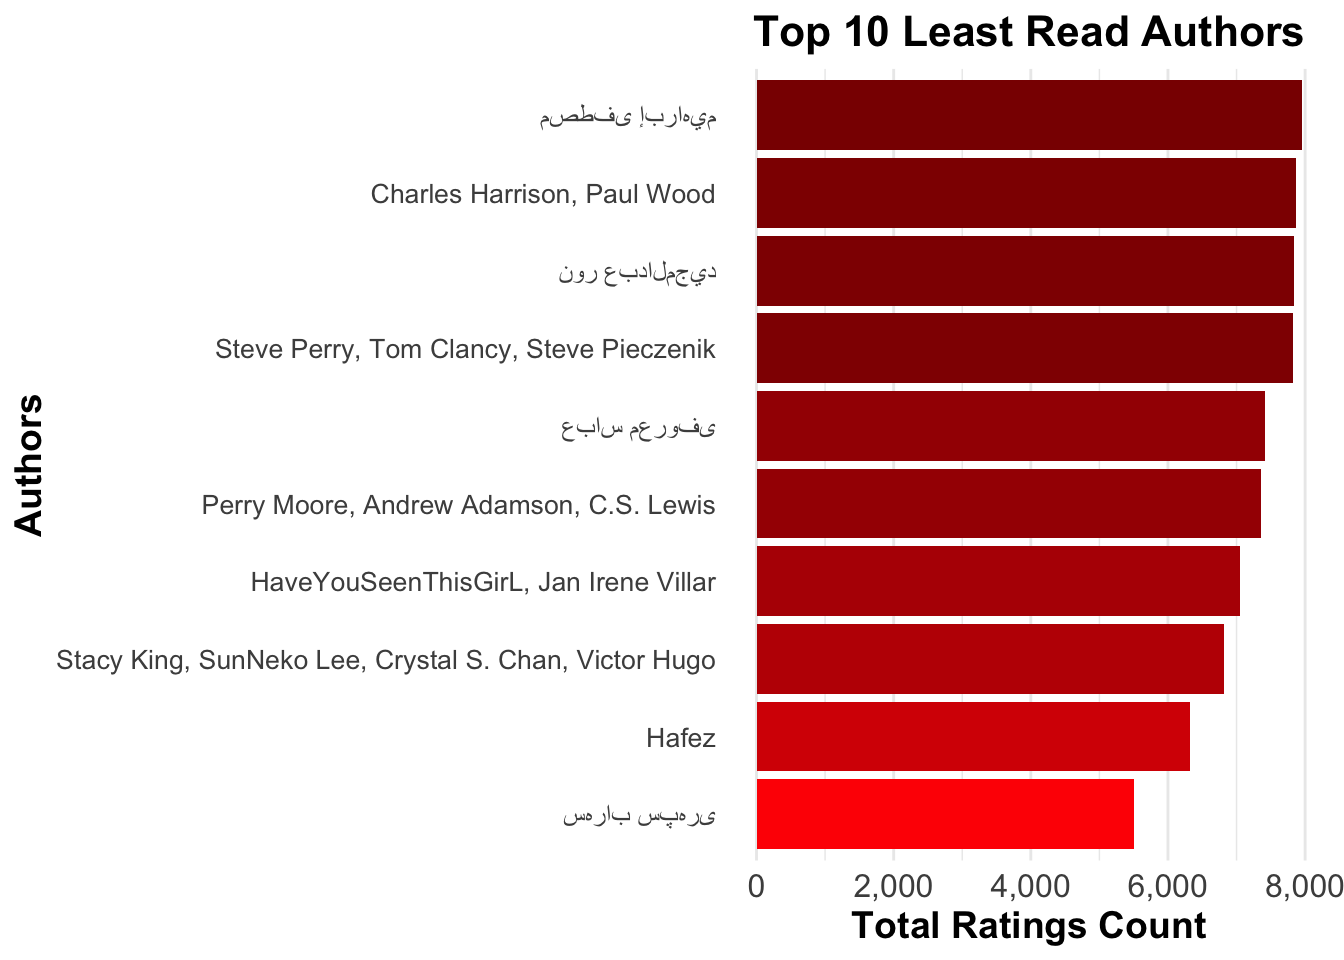
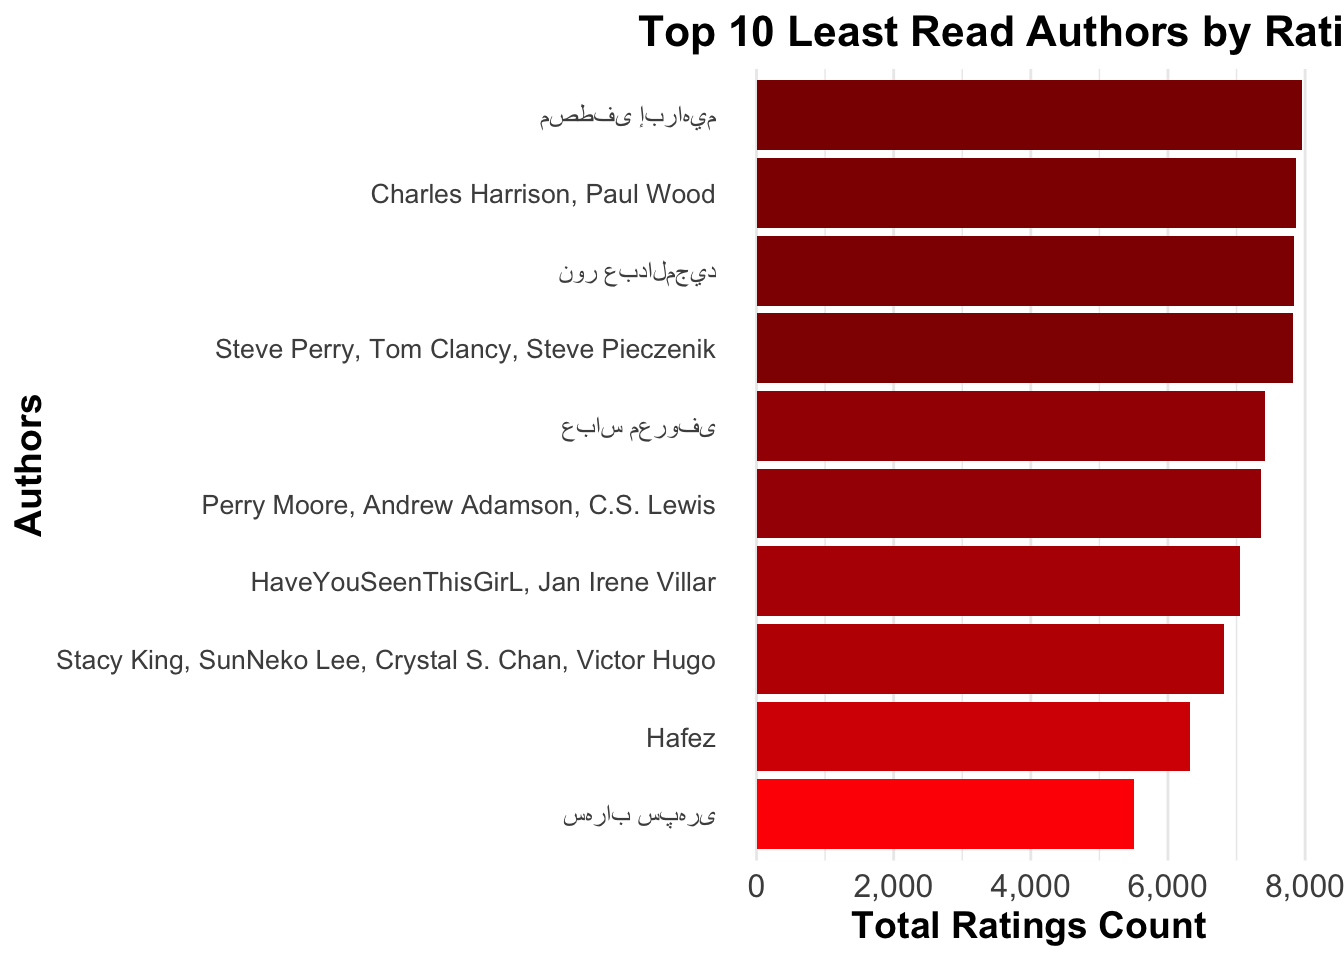
(KB)

Changed region(s): [[0.4688, 0.0, 1.0, 0.0625]]

diff --git a/most_read_authors.html b/most_read_authors.html
@@ -324,15 +324,6 @@ $(document).ready(function () {
 <h2>Data Import</h2>
 <div id="summarizing-read-counts-by-author" class="section level3">
 <h3><em>Summarizing Read Counts by Author</em></h3>
-<pre class="r"><code>most_read_authors &lt;- books %&gt;%
-  group_by(authors) %&gt;%
-  summarize(
-    total_ratings = sum(work_ratings_count, na.rm = TRUE), 
-    num_books = n() #Counting the number of books per author
-  ) %&gt;%
-  arrange(desc(total_ratings))
-
-head(most_read_authors, 50)</code></pre>
 <pre><code>## # A tibble: 50 × 3
 ##    authors                     total_ratings num_books
 ##    &lt;chr&gt;                               &lt;int&gt;     &lt;int&gt;
@@ -350,38 +341,73 @@ head(most_read_authors, 50)</code></pre>
 </div>
 <div id="displaying-top-10-most-read-authors" class="section level3">
 <h3><em>Displaying Top 10 Most Read Authors</em></h3>
-<pre class="r"><code>ggplot(head(most_read_authors, 10), aes(x = total_ratings, y = reorder(authors, total_ratings))) +
-  geom_bar(stat = &quot;identity&quot;, aes(fill = total_ratings), show.legend = FALSE) +
-  labs(
-    title = &quot;Top 10 Most Read Authors by Rating&quot;,
-    x = &quot;Total Ratings Count&quot;,
-    y = &quot;Authors&quot;
-  ) +
-  scale_fill_gradient(low = &quot;red&quot;, high = &quot;darkred&quot;) + 
-  theme_minimal() +
-  theme(
-    plot.title = element_text(size = 16, face = &quot;bold&quot;, hjust = 0.5), 
-    axis.text.y = element_text(size = 10), 
-    axis.text.x = element_text(size = 12),
-    axis.title = element_text(size = 14, face = &quot;bold&quot;), 
-    panel.grid.major.y = element_blank() 
-  ) +
-  scale_x_continuous(labels = scales::comma)</code></pre>
 <p><img src="most_read_authors_files/figure-html/Dislaying%20Top%2010%20Most%20Read%20Authors-1.png" width="672" /></p>
 <p><strong>Top 10 Most Read Authors</strong></p>
-<p>This bar chart, “Top 10 Most Read Authors by Rating” depicts the
+<p>This bar chart, “Top 10 Most Read Authors by Ratings” depicts the
 percentage of total ratings each author received relative to the
-dataset. The top 10 most read authors are:</p>
-<p>J.K. Rowling &amp; Mary GrandPré: 14,126,791 ratings<br />
-Suzanne Collins: 9,161,124 ratings<br />
-Stephenie Meyer: 8,631,937 ratings<br />
-Stephen King: 7,297,834 ratings<br />
-Rick Riordan: 5,717,999 ratings<br />
-J.R.R. Tolkien: 5,602,790 ratings<br />
-Dan Brown: 5,332,589 ratings<br />
-Cassandra Clare: 4,631,019 ratings<br />
-Nicholas Sparks: 4,501,871 ratings<br />
-John Green: 4,312,589 ratings</p>
+dataset.</p>
+<table>
+<caption>Top 10 Most Read Authors by Total Ratings</caption>
+<thead>
+<tr class="header">
+<th align="left">Author</th>
+<th align="right">Total_Ratings</th>
+<th align="right">Number_of_Books</th>
+</tr>
+</thead>
+<tbody>
+<tr class="odd">
+<td align="left">J.K. Rowling, Mary GrandPré</td>
+<td align="right">14126791</td>
+<td align="right">8</td>
+</tr>
+<tr class="even">
+<td align="left">Suzanne Collins</td>
+<td align="right">9161124</td>
+<td align="right">9</td>
+</tr>
+<tr class="odd">
+<td align="left">Stephenie Meyer</td>
+<td align="right">8631937</td>
+<td align="right">11</td>
+</tr>
+<tr class="even">
+<td align="left">Stephen King</td>
+<td align="right">7297834</td>
+<td align="right">60</td>
+</tr>
+<tr class="odd">
+<td align="left">Rick Riordan</td>
+<td align="right">5717999</td>
+<td align="right">22</td>
+</tr>
+<tr class="even">
+<td align="left">J.R.R. Tolkien</td>
+<td align="right">5602790</td>
+<td align="right">6</td>
+</tr>
+<tr class="odd">
+<td align="left">Dan Brown</td>
+<td align="right">5332589</td>
+<td align="right">7</td>
+</tr>
+<tr class="even">
+<td align="left">Cassandra Clare</td>
+<td align="right">4631019</td>
+<td align="right">13</td>
+</tr>
+<tr class="odd">
+<td align="left">Nicholas Sparks</td>
+<td align="right">4501871</td>
+<td align="right">19</td>
+</tr>
+<tr class="even">
+<td align="left">John Green</td>
+<td align="right">4312589</td>
+<td align="right">4</td>
+</tr>
+</tbody>
+</table>
 </div>
 </div>
 

diff --git a/least_read_authors.html b/least_read_authors.html
@@ -322,36 +322,81 @@ $(document).ready(function () {
 
 <div id="data-import" class="section level2">
 <h2>Data Import</h2>
-<div id="summarizing-read-counts-by-author" class="section level3">
-<h3><em>Summarizing Read Counts by Author</em></h3>
-<pre class="r"><code>least_read_authors &lt;- books %&gt;%
-  group_by(authors) %&gt;%
-  summarize(
-    total_ratings = sum(work_ratings_count, na.rm = TRUE), 
-    num_books = n() 
-  ) %&gt;%
-  arrange(total_ratings) </code></pre>
-</div>
 <div id="displaying-top-10-least-read-authors" class="section level3">
 <h3><em>Displaying Top 10 Least Read Authors</em></h3>
-<pre class="r"><code>ggplot(head(least_read_authors, 10), aes(x = total_ratings, y = reorder(authors, total_ratings))) +
-  geom_bar(stat = &quot;identity&quot;, aes(fill = total_ratings), show.legend = FALSE) +
-  labs(
-    title = &quot;Top 10 Least Read Authors&quot;,
-    x = &quot;Total Ratings Count&quot;,
-    y = &quot;Authors&quot;
-  ) +
-  scale_fill_gradient(low = &quot;red&quot;, high = &quot;darkred&quot;) +
-  theme_minimal() +
-  theme(
-    plot.title = element_text(size = 16, face = &quot;bold&quot;, hjust = 0.5),  
-    axis.text.y = element_text(size = 10),
-    axis.text.x = element_text(size = 12),
-    axis.title = element_text(size = 14, face = &quot;bold&quot;), 
-    panel.grid.major.y = element_blank() 
-  ) +
-  scale_x_continuous(labels = scales::comma)</code></pre>
 <p><img src="least_read_authors_files/figure-html/Dislaying%20Top%2010%20Least%20Read%20Authors-1.png" width="672" /></p>
+<p><strong>Top 10 Least Read Authors</strong></p>
+<p>This bar chart, “Top 10 Least Read Authors by Ratings” depicts the
+percentage of total ratings each author received relative to the
+dataset.</p>
+<table>
+<caption>Table: Top 10 Least Read Authors by Total Ratings</caption>
+<colgroup>
+<col width="69%" />
+<col width="17%" />
+<col width="12%" />
+</colgroup>
+<thead>
+<tr class="header">
+<th align="left">authors</th>
+<th align="right">total_ratings</th>
+<th align="right">num_books</th>
+</tr>
+</thead>
+<tbody>
+<tr class="odd">
+<td align="left">سهراب سپهری</td>
+<td align="right">5510</td>
+<td align="right">1</td>
+</tr>
+<tr class="even">
+<td align="left">Hafez</td>
+<td align="right">6323</td>
+<td align="right">1</td>
+</tr>
+<tr class="odd">
+<td align="left">Stacy King, SunNeko Lee, Crystal S. Chan, Victor
+Hugo</td>
+<td align="right">6823</td>
+<td align="right">1</td>
+</tr>
+<tr class="even">
+<td align="left">HaveYouSeenThisGirL, Jan Irene Villar</td>
+<td align="right">7045</td>
+<td align="right">1</td>
+</tr>
+<tr class="odd">
+<td align="left">Perry Moore, Andrew Adamson, C.S. Lewis</td>
+<td align="right">7353</td>
+<td align="right">1</td>
+</tr>
+<tr class="even">
+<td align="left">عباس معروفی</td>
+<td align="right">7410</td>
+<td align="right">1</td>
+</tr>
+<tr class="odd">
+<td align="left">Steve Perry, Tom Clancy, Steve Pieczenik</td>
+<td align="right">7825</td>
+<td align="right">1</td>
+</tr>
+<tr class="even">
+<td align="left">نور عبدالمجيد</td>
+<td align="right">7845</td>
+<td align="right">1</td>
+</tr>
+<tr class="odd">
+<td align="left">Charles Harrison, Paul Wood</td>
+<td align="right">7866</td>
+<td align="right">1</td>
+</tr>
+<tr class="even">
+<td align="left">مصطفى إبراهيم</td>
+<td align="right">7956</td>
+<td align="right">1</td>
+</tr>
+</tbody>
+</table>
 </div>
 </div>
 
